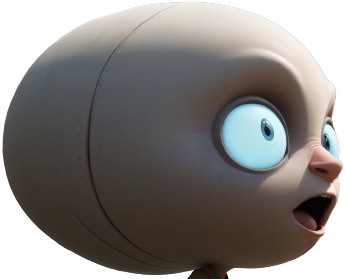
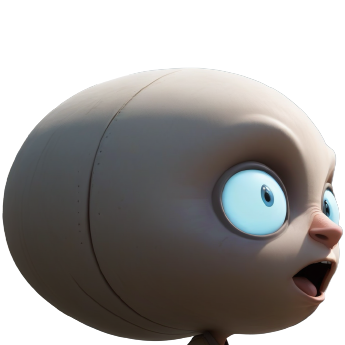
fiddling

diff --git a/src/characters/ben1/Ben.ts b/src/characters/ben1/Ben.ts
@@ -1,9 +1,13 @@
 import * as Phaser from 'phaser';
 
 class Bob1 extends Phaser.GameObjects.Container {
-  private head: Phaser.GameObjects.Image | undefined;
+  public head: Phaser.GameObjects.Image | undefined;
 
-  private headSize = 0.1;
+  private mybody: Phaser.GameObjects.Image | undefined;
+
+  private headSize = 0.2;
+
+  private neck: Phaser.Types.Physics.Matter.MatterConstraintConfig;
 
   static preload(scene: Phaser.Scene) {
     scene.load.image('head1', '/head1.png');
@@ -15,56 +19,75 @@ class Bob1 extends Phaser.GameObjects.Container {
 
     this.scene = scene;
 
+    this.mybody = this.scene.matter.add.image(x, y + 100, 'body1', undefined, {
+      shape: 'rectangle',
+      friction: 0.005,
+      restitution: 0.6,
+    });
+
     this.head = this.scene.matter.add.image(x, y, 'head1', undefined, {
       shape: 'circle',
       friction: 0.005,
       restitution: 0.6,
     });
     this.head.setScale(0.4);
-    const body = this.scene.matter.add.image(x, y + 100, 'body1', undefined, {
-      shape: 'rectangle',
-      friction: 0.005,
-      restitution: 0.6,
-    });
 
-    this.scene.matter.add.constraint(
+    // this.scene.matter.add.constraint(
+    //   this.head.body?.gameObject,
+    //   body.body?.gameObject,
+    //   200,
+    //   0.0001,
+    //   {
+    //     pointA: { x: 20, y: 10 },
+    //     pointB: { x: -60, y: -40 },
+    //   },
+    // );
+    // this.scene.matter.add.constraint(
+    //   this.head.body?.gameObject,
+    //   body.body?.gameObject,
+    //   200,
+    //   0.0001,
+    //   {
+    //     pointA: { x: -20, y: 10 },
+    //     pointB: { x: 60, y: -40 },
+    //   },
+    // );
+    this.neck = this.scene.matter.add.constraint(
       this.head.body?.gameObject,
-      body.body?.gameObject,
-      200,
-      0.005,
+      this.mybody.body?.gameObject,
+      0,
+      0.1,
       {
-        pointA: { x: 20, y: -5 },
-        pointB: { x: -60, y: 0 },
+        pointA: { x: 0, y: 40 },
+        pointB: { x: 0, y: -80 },
+        damping: 0,
+        angularStiffness: 0,
       },
     );
-    this.scene.matter.add.constraint(
-      this.head.body?.gameObject,
-      body.body?.gameObject,
-      200,
-      0.005,
-      {
-        pointA: { x: -20, y: -5 },
-        pointB: { x: 60, y: 0 },
-      },
-    );
-    this.scene.matter.add.constraint(
-      this.head.body?.gameObject,
-      body.body?.gameObject,
-      50,
-      0.005,
-      {
-        pointA: { x: 0, y: 20 },
-        pointB: { x: 0, y: -50 },
-      },
-    );
-
-    // console.log('created ben!');
   }
 
   update() {
-    if (!this.head) return;
+    if (!this.head || !this.mybody || !this.neck) return;
     this.head.setScale(this.headSize);
     this.headSize += 0.001;
+
+    // this.scene.matter.world.removeConstraint(this.neck);
+
+    // this.neck = this.scene.matter.add.constraint(
+    //   this.head.body?.gameObject,
+    //   this.body.body?.gameObject,
+    //   0,
+    //   0.1,
+    //   {
+    //     pointA: { x: 0, y: this.headSize * 200 },
+    //     pointB: { x: 0, y: -80 },
+    //     damping: 0,
+    //     angularStiffness: 0,
+    //   },
+    // );
+
+    // this.neck.pointA = { x: 0, y: this.headSize * -1 };
+    console.log(this.neck.pointA);
   }
 }
 

diff --git a/src/scenes/game-scene.ts b/src/scenes/game-scene.ts
@@ -7,6 +7,21 @@ const toggleDebug = (scene: Scene) => {
   scene.matter.world.debugGraphic.clear();
 };
 
+const smoothMoveCameraTowards = (
+  scene: Scene,
+  target: GameObjects.Image | undefined,
+  smoothFactor = 0,
+) => {
+  if (!target) return;
+  const cam = scene.cameras.main;
+  cam.scrollX =
+    smoothFactor * cam.scrollX +
+    (1 - smoothFactor) * (target.x - cam.width * 0.5);
+  cam.scrollY =
+    smoothFactor * cam.scrollY +
+    (1 - smoothFactor) * (target.y - cam.height * 0.6);
+};
+
 class GameScene extends Scene {
   private ben: Ben1 | undefined;
 
@@ -22,20 +37,18 @@ class GameScene extends Scene {
 
   create() {
     // toggle debug GFX
-    toggleDebug(this);
+    // toggleDebug(this);
     this.input.keyboard?.on('keydown-CTRL', () => toggleDebug(this));
 
     this.matter.world.setBounds();
     this.matter.add.mouseSpring();
 
-    // setTimeout(() => {
     this.ben = new Ben1(this, 500, 500);
-    // }, 500);
 
     this.textbox = this.add.text(
       window.innerWidth / 2,
       window.innerHeight / 2,
-      'Welcome to Phaser x Vite!',
+      'Big Ed!',
       {
         color: '#FFF',
         fontFamily: 'monospace',
@@ -54,6 +67,8 @@ class GameScene extends Scene {
     this.textbox.rotation += 0.0005 * delta;
 
     this.ben.update();
+
+    smoothMoveCameraTowards(this, this.ben.head, 0.9);
   }
 }
 
